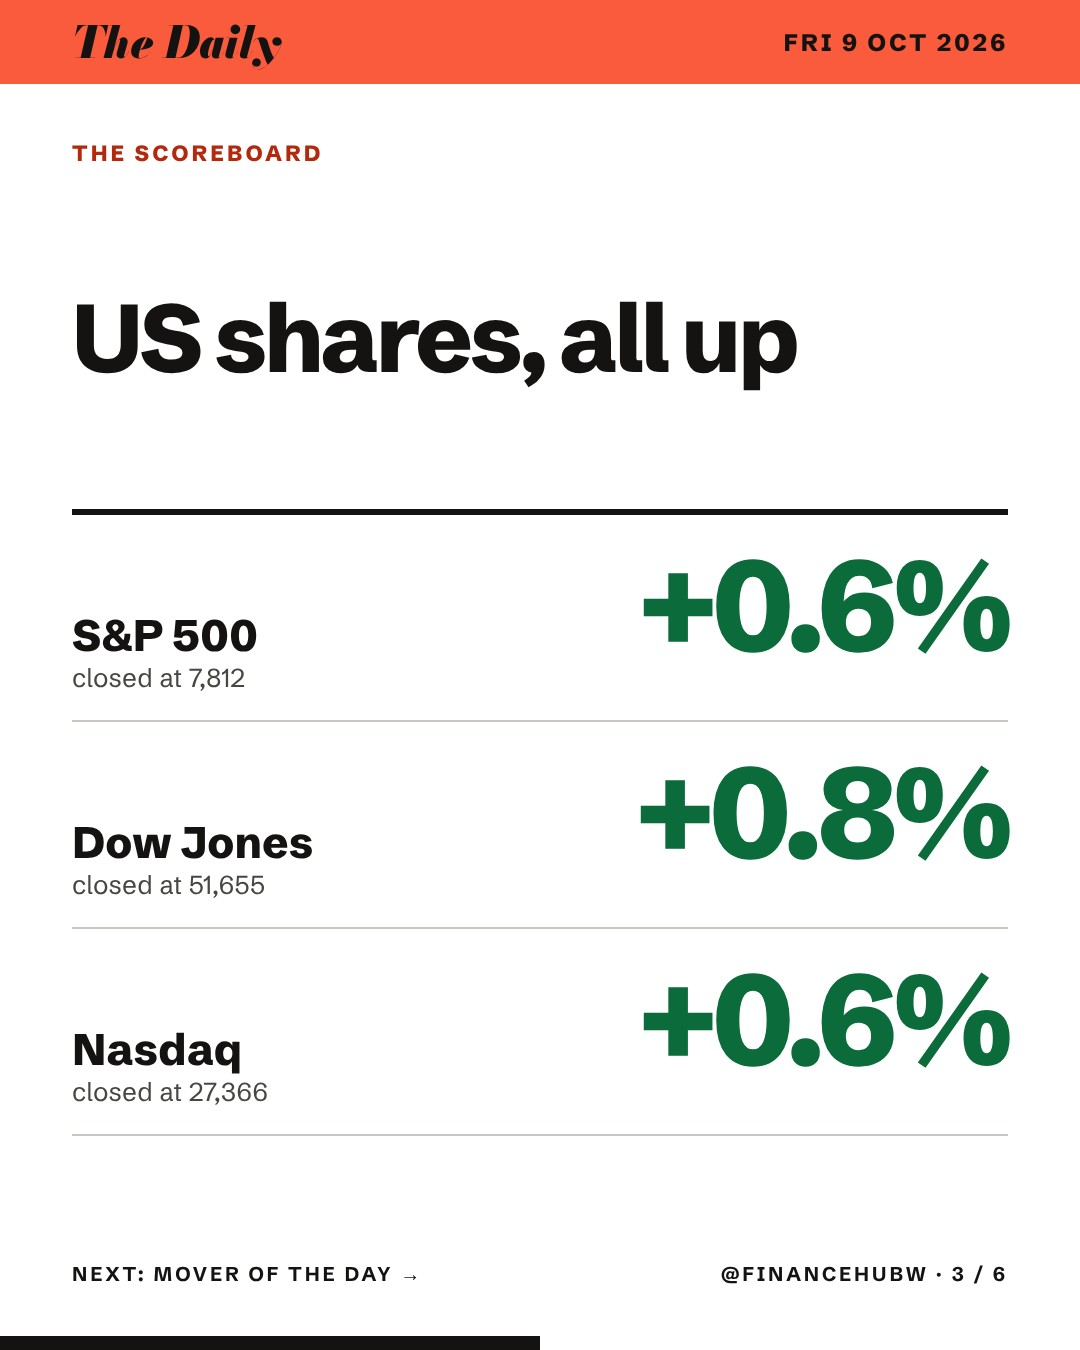
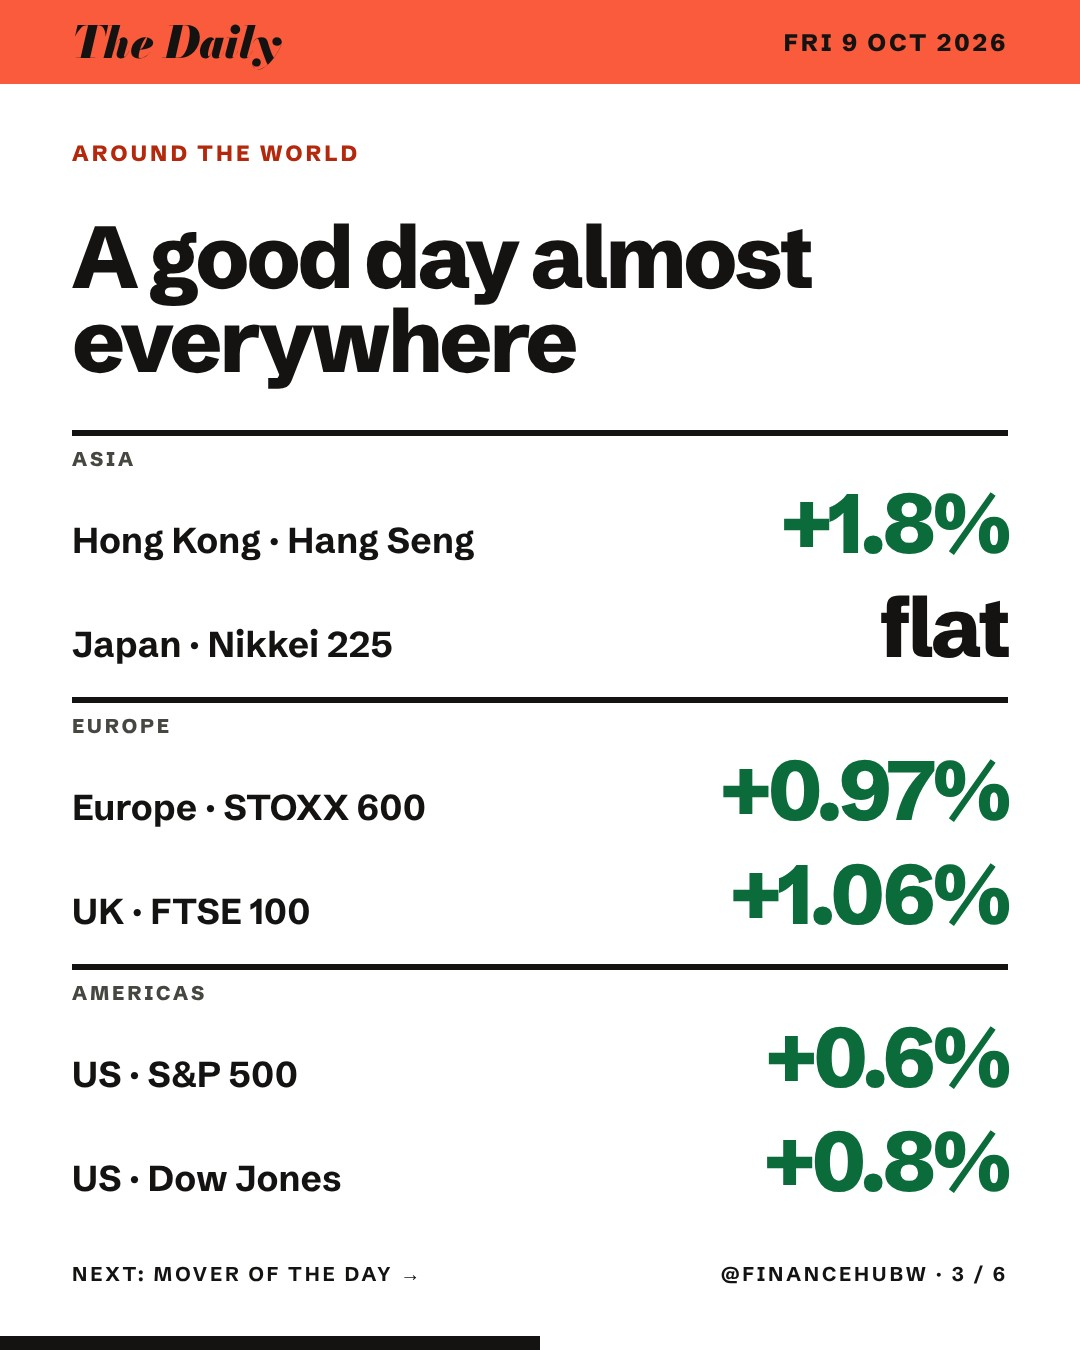
The Daily covers the whole world: Asia, Europe and the Americas

diff --git a/magazine/daily/2026-10-09/slides/03.html b/magazine/daily/2026-10-09/slides/03.html
@@ -2,7 +2,7 @@
 <html lang="en">
 <head>
 <meta charset="utf-8">
-<title>The scoreboard</title>
+<title>Around the world</title>
 <link rel="stylesheet" href="../../../fonts/fonts.css">
 <style>html,body{margin:0;background:#FFFFFF}</style>
 </head>
@@ -10,20 +10,23 @@
 <div style="width: 1080px; height: 1350px; box-sizing: border-box; position: relative; background: #FFFFFF; color: #141311; font-family: 'Schibsted Grotesk', sans-serif; display: flex; flex-direction: column">
   <div style="display: flex; justify-content: space-between; align-items: center; background: #FA5B3C; color: #141311; padding: 20px 72px; font-size: 24px; font-weight: 800; letter-spacing: 0.12em"><div style="font-family: 'Bodoni Moda', serif; font-style: italic; font-weight: 900; font-size: 44px; letter-spacing: -0.01em; line-height: 1">The Daily</div><div>FRI 9 OCT 2026</div></div>
   <div style="flex: 1 1 0; box-sizing: border-box; padding: 56px 72px 64px; display: flex; flex-direction: column; justify-content: space-between">
-    <div style="font-size: 22px; font-weight: 800; letter-spacing: 0.14em; color: #B4280E">THE SCOREBOARD</div>
-    <div style="font-weight: 800; font-size: 96px; line-height: 0.95; letter-spacing: -0.04em">US shares, all up</div>
-    <div style="display: flex; flex-direction: column; border-top: 6px solid #141311">
-      <div style="display: flex; justify-content: space-between; align-items: baseline; gap: 20px; padding: 26px 0; border-bottom: 2px solid #C9C6C0">
-        <div style="display: flex; flex-direction: column"><div style="font-size: 44px; font-weight: 800">S&amp;P 500</div><div style="font-size: 26px; color: #474742">closed at 7,812</div></div>
-        <div style="font-weight: 800; font-size: 128px; line-height: 1; letter-spacing: -0.04em; color: #0B6B3A">+0.6%</div>
+    <div style="font-size: 22px; font-weight: 800; letter-spacing: 0.14em; color: #B4280E">AROUND THE WORLD</div>
+    <div style="font-weight: 800; font-size: 88px; line-height: 0.95; letter-spacing: -0.04em">A good day almost everywhere</div>
+    <div style="display: flex; flex-direction: column; gap: 18px">
+      <div style="display: flex; flex-direction: column; border-top: 6px solid #141311; padding-top: 10px">
+        <div style="font-size: 20px; font-weight: 800; letter-spacing: 0.14em; color: #474742">ASIA</div>
+        <div style="display: flex; justify-content: space-between; align-items: baseline; gap: 16px; padding: 10px 0"><div style="font-size: 36px; font-weight: 700">Hong Kong · Hang Seng</div><div style="font-weight: 800; font-size: 84px; line-height: 1; letter-spacing: -0.04em; color: #0B6B3A">+1.8%</div></div>
+        <div style="display: flex; justify-content: space-between; align-items: baseline; gap: 16px; padding: 10px 0"><div style="font-size: 36px; font-weight: 700">Japan · Nikkei 225</div><div style="font-weight: 800; font-size: 84px; line-height: 1; letter-spacing: -0.04em; color: #141311">flat</div></div>
       </div>
-      <div style="display: flex; justify-content: space-between; align-items: baseline; gap: 20px; padding: 26px 0; border-bottom: 2px solid #C9C6C0">
-        <div style="display: flex; flex-direction: column"><div style="font-size: 44px; font-weight: 800">Dow Jones</div><div style="font-size: 26px; color: #474742">closed at 51,655</div></div>
-        <div style="font-weight: 800; font-size: 128px; line-height: 1; letter-spacing: -0.04em; color: #0B6B3A">+0.8%</div>
+      <div style="display: flex; flex-direction: column; border-top: 6px solid #141311; padding-top: 10px">
+        <div style="font-size: 20px; font-weight: 800; letter-spacing: 0.14em; color: #474742">EUROPE</div>
+        <div style="display: flex; justify-content: space-between; align-items: baseline; gap: 16px; padding: 10px 0"><div style="font-size: 36px; font-weight: 700">Europe · STOXX 600</div><div style="font-weight: 800; font-size: 84px; line-height: 1; letter-spacing: -0.04em; color: #0B6B3A">+0.97%</div></div>
+        <div style="display: flex; justify-content: space-between; align-items: baseline; gap: 16px; padding: 10px 0"><div style="font-size: 36px; font-weight: 700">UK · FTSE 100</div><div style="font-weight: 800; font-size: 84px; line-height: 1; letter-spacing: -0.04em; color: #0B6B3A">+1.06%</div></div>
       </div>
-      <div style="display: flex; justify-content: space-between; align-items: baseline; gap: 20px; padding: 26px 0; border-bottom: 2px solid #C9C6C0">
-        <div style="display: flex; flex-direction: column"><div style="font-size: 44px; font-weight: 800">Nasdaq</div><div style="font-size: 26px; color: #474742">closed at 27,366</div></div>
-        <div style="font-weight: 800; font-size: 128px; line-height: 1; letter-spacing: -0.04em; color: #0B6B3A">+0.6%</div>
+      <div style="display: flex; flex-direction: column; border-top: 6px solid #141311; padding-top: 10px">
+        <div style="font-size: 20px; font-weight: 800; letter-spacing: 0.14em; color: #474742">AMERICAS</div>
+        <div style="display: flex; justify-content: space-between; align-items: baseline; gap: 16px; padding: 10px 0"><div style="font-size: 36px; font-weight: 700">US · S&amp;P 500</div><div style="font-weight: 800; font-size: 84px; line-height: 1; letter-spacing: -0.04em; color: #0B6B3A">+0.6%</div></div>
+        <div style="display: flex; justify-content: space-between; align-items: baseline; gap: 16px; padding: 10px 0"><div style="font-size: 36px; font-weight: 700">US · Dow Jones</div><div style="font-weight: 800; font-size: 84px; line-height: 1; letter-spacing: -0.04em; color: #0B6B3A">+0.8%</div></div>
       </div>
     </div>
     <div style="display: flex; justify-content: space-between; align-items: center; font-size: 20px; font-weight: 700; letter-spacing: 0.14em"><div>NEXT: MOVER OF THE DAY →</div><div>@FINANCEHUBW · 3 / 6</div></div>

diff --git a/magazine/daily/2026-10-09/slides/02.html b/magazine/daily/2026-10-09/slides/02.html
@@ -17,7 +17,7 @@
       <div style="font-weight: 800; font-size: 210px; line-height: 0.85; letter-spacing: -0.05em; color: #0B6B3A">+423</div>
       <div style="font-size: 34px; line-height: 1.2; font-weight: 600">points on the<br>Dow Jones</div>
     </div>
-    <div style="display: flex; justify-content: space-between; align-items: center; font-size: 20px; font-weight: 700; letter-spacing: 0.14em"><div>NEXT: THE SCOREBOARD →</div><div>@FINANCEHUBW · 2 / 6</div></div>
+    <div style="display: flex; justify-content: space-between; align-items: center; font-size: 20px; font-weight: 700; letter-spacing: 0.14em"><div>NEXT: AROUND THE WORLD →</div><div>@FINANCEHUBW · 2 / 6</div></div>
   </div>
   <div style="position: absolute; left: 0; bottom: 0; width: 33.33%; height: 14px; background: #141311" aria-hidden="true"></div>
 </div>

diff --git a/magazine/README.md b/magazine/README.md
@@ -17,8 +17,10 @@ The sections below describe The Weekly. The Daily follows the same steps with th
 slides in `magazine/daily/YYYY-MM-DD/slides/01.html` ... `06.html` (the date is the market day
 covered), `python magazine/render.py daily YYYY-MM-DD`, an entry in `site/daily.json`
 (date, label, title, summary, `"slides": 6`) and an entry in `social/daily_queue.json`
-(date, title, caption). Daily slide order: cover, the story, the scoreboard, mover of the day,
-also today, up next. Never restyle one edition to look like the other.
+(date, title, caption). Daily slide order: cover, the story, around the world, mover of the day,
+also today, up next. The Daily covers the whole world, not only America: the "around the world"
+slide shows two indexes each for Asia, Europe and the Americas, and the story, the mover and the
+"also today" items are picked from wherever the day's biggest news was. Never restyle one edition to look like the other.
 
 ## How an issue goes out
 
